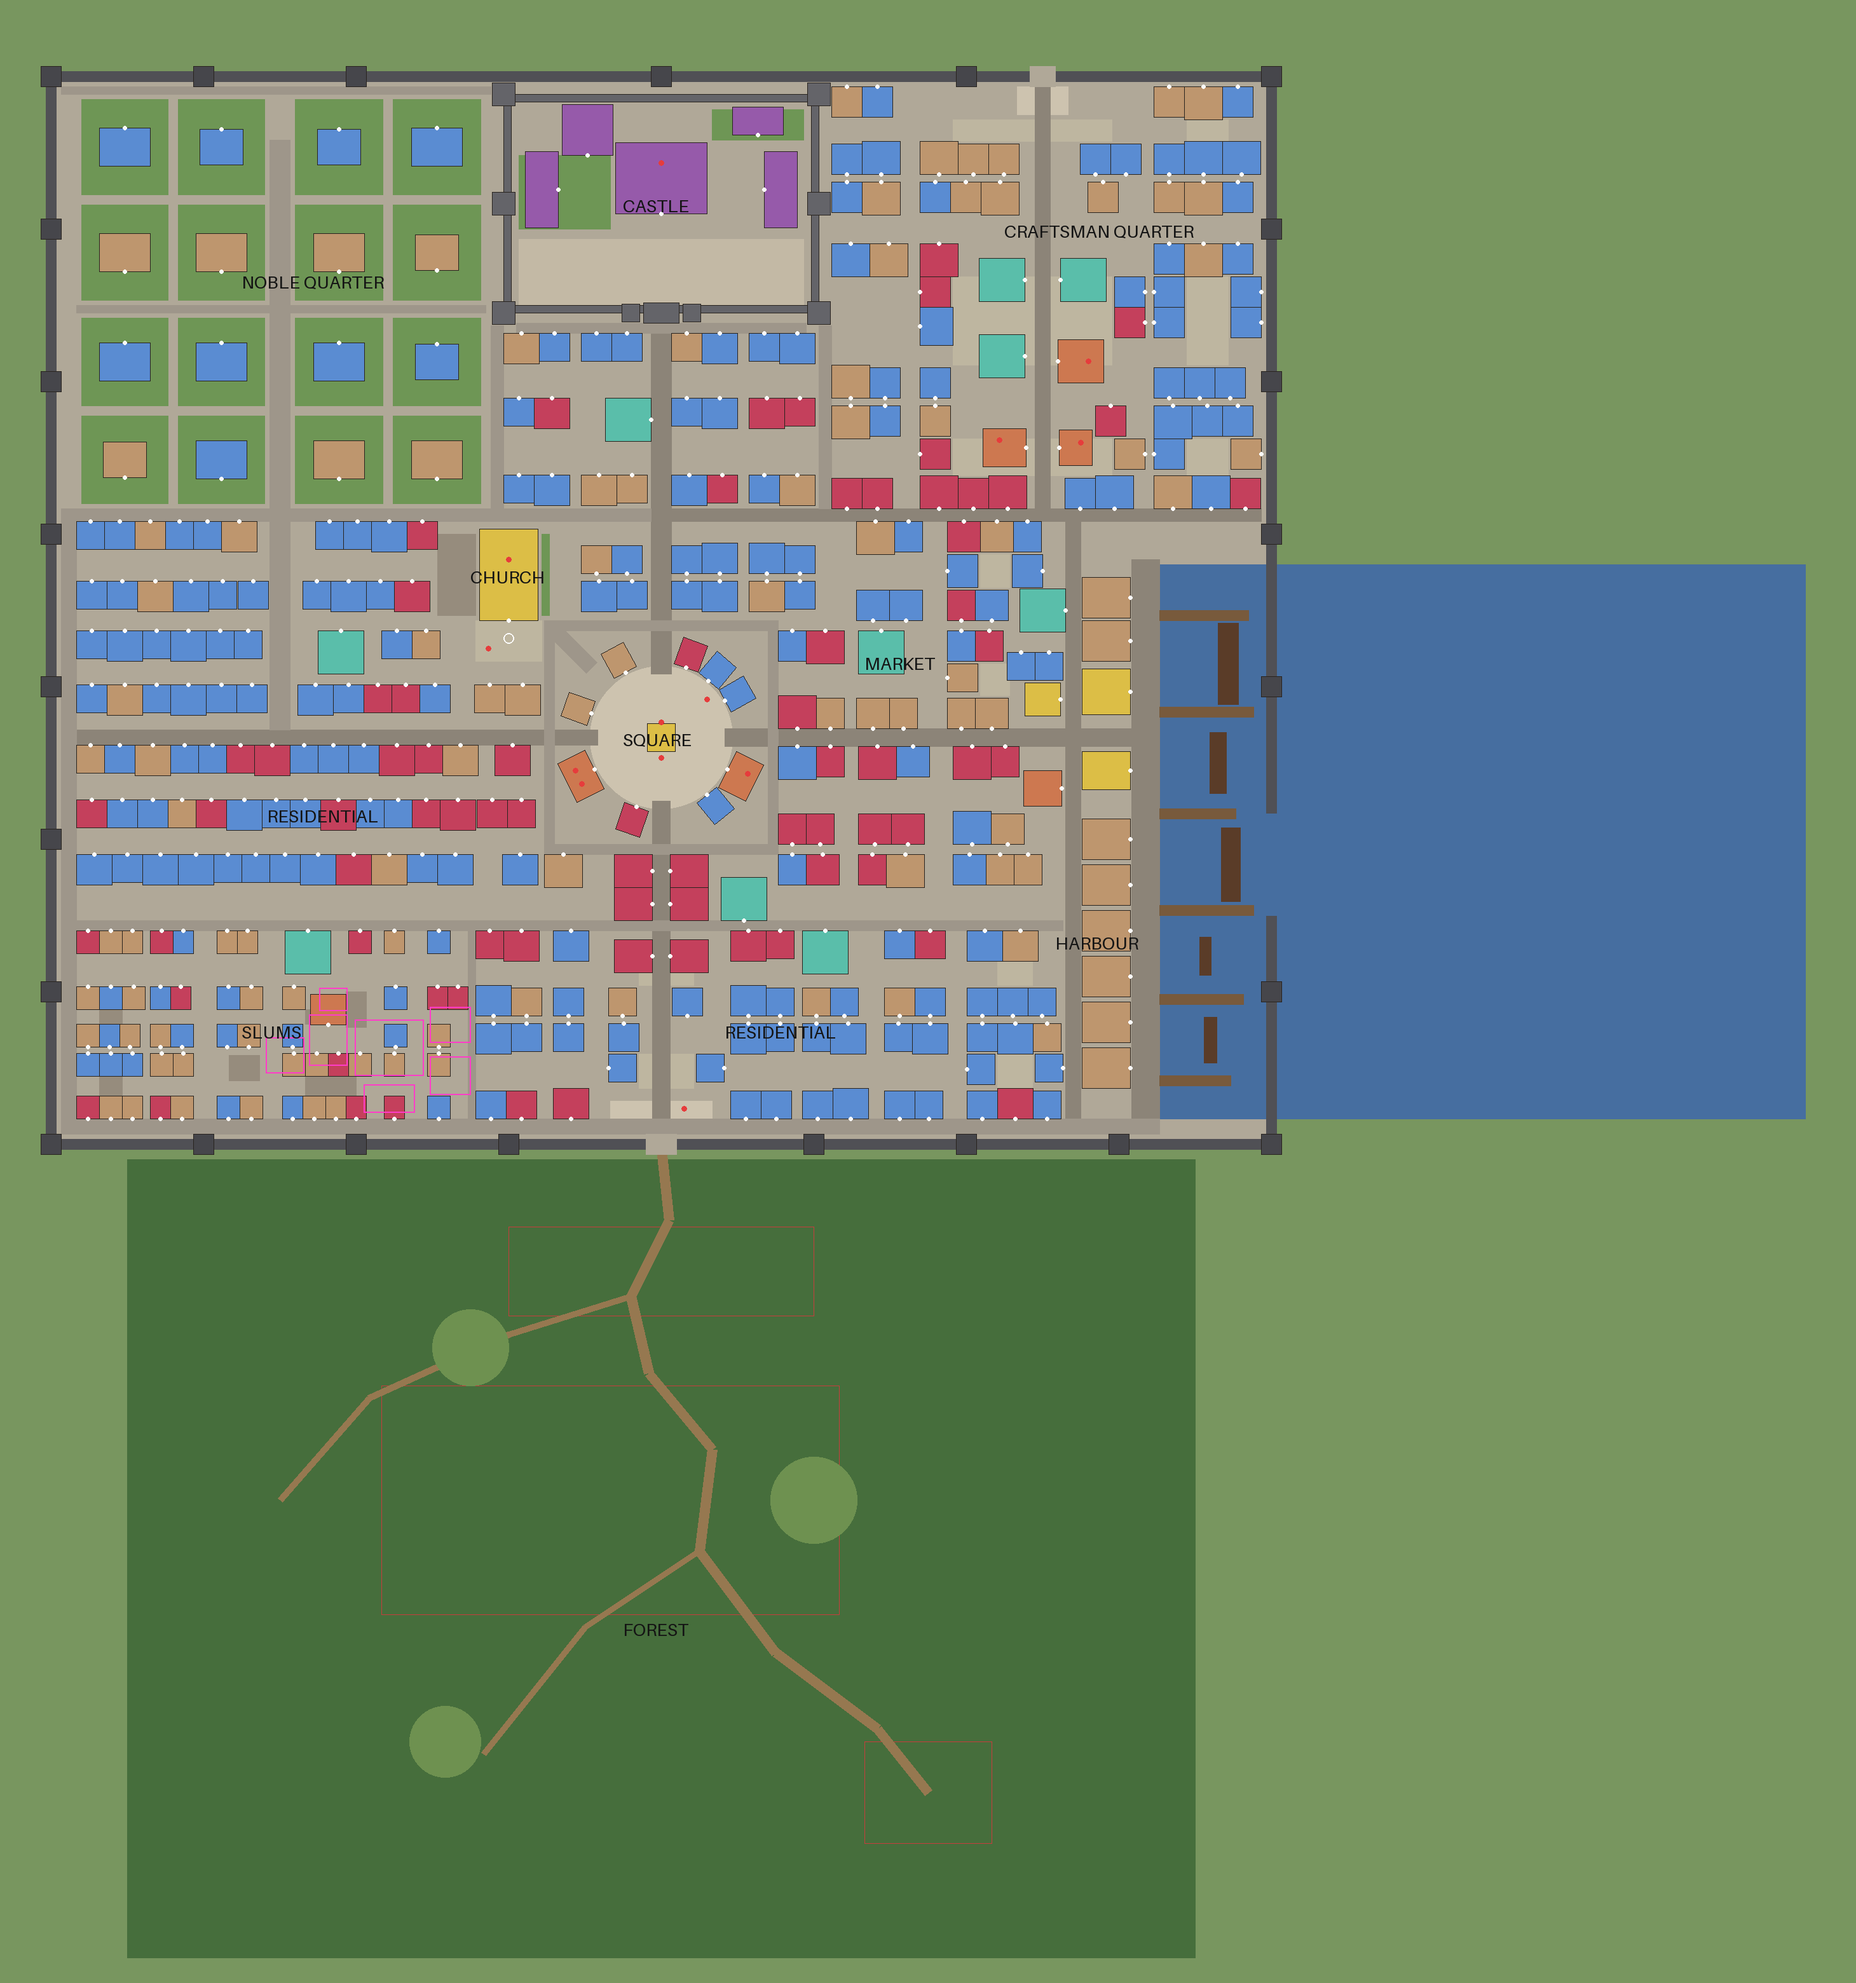
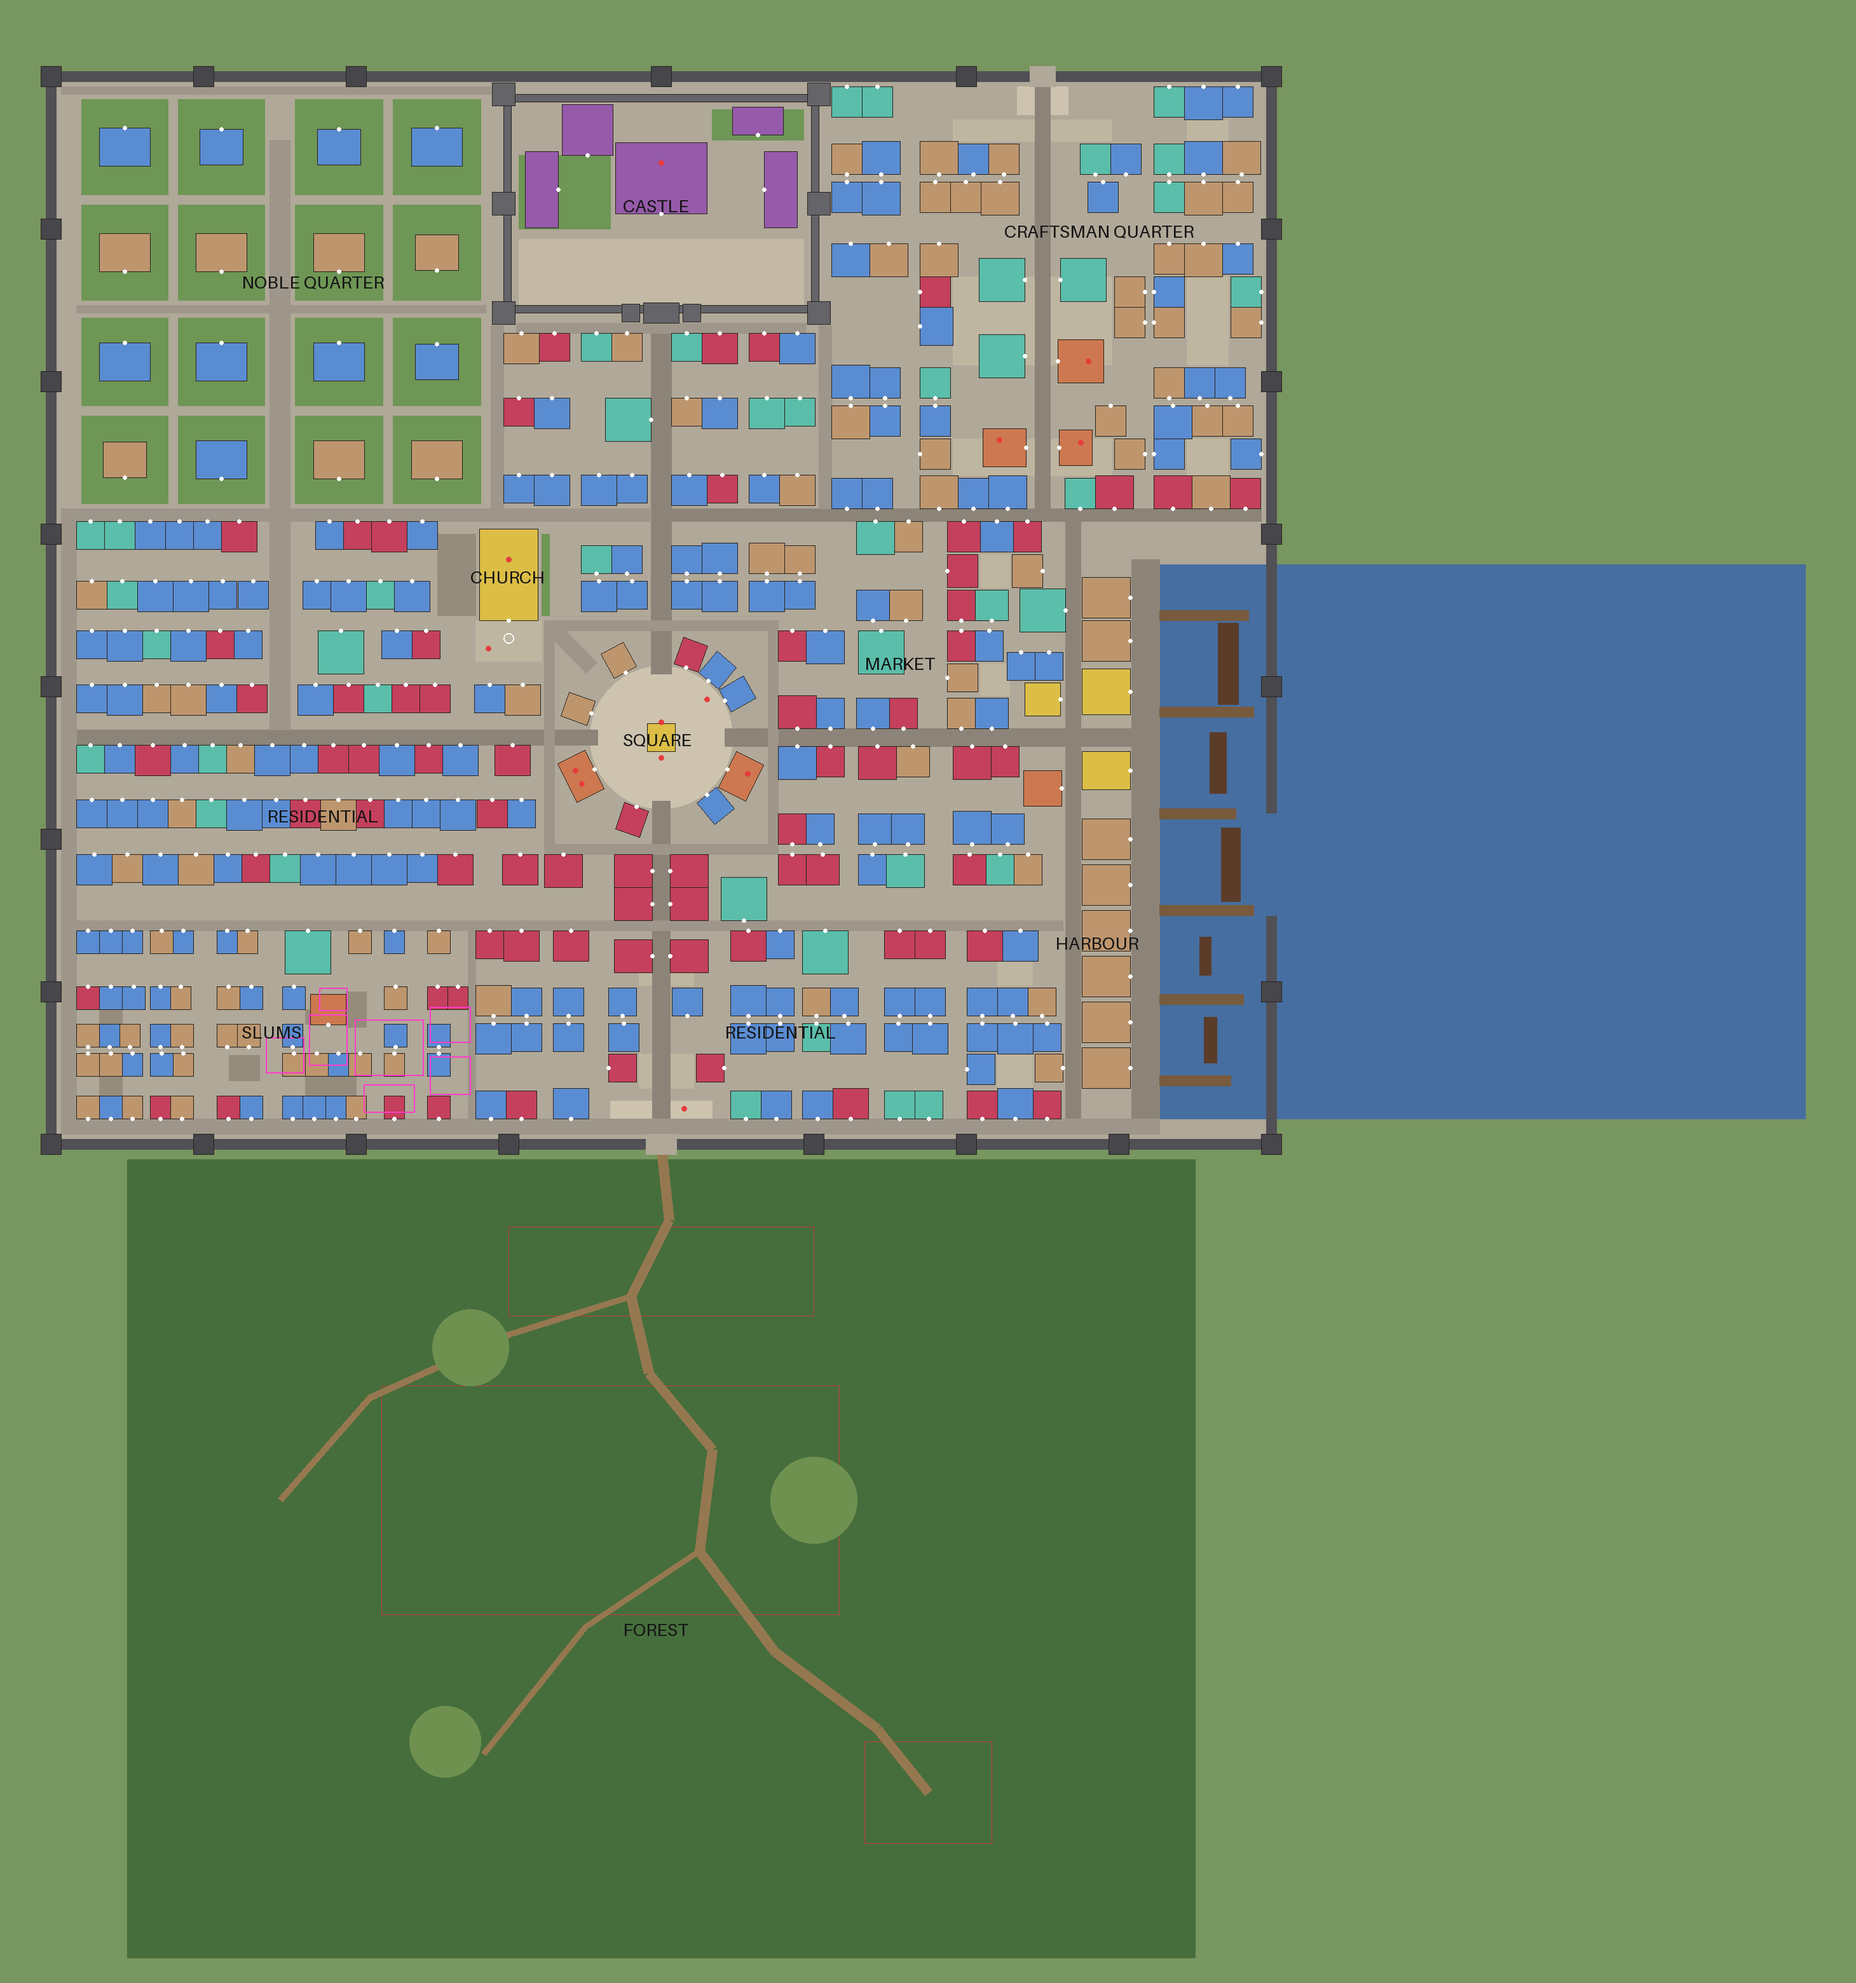
Heart of Realms crystal replaces the fountain; guild houses on ordinary streets
The centre of the square is now the Heart of Realms itself: a crystal floating over a
stepped dais with a glowing core, shards at its foot, rune stones and eight obelisks.
32 guild houses (smaller halls, tier GuildHouse) join the 10 guild halls: 42 guild
buildings, fewer than the 74 shops, with 172 homes for sale.

Claude-Session: https://claude.ai/code/session_016ysSiGEq7Zq6AQg1sgUB1S

diff --git a/vanta/docs/CITY.md b/vanta/docs/CITY.md
@@ -15,7 +15,7 @@ opens to the sea in the east. Each white dot marks a door.
 | rose | Player shop for sale, with its counter on the street |
 | tan | House or building that isn't for sale |
 | orange | Public building you walk into (guild, inns and taverns, forge, apothecary) |
-| gold | Public landmark (church, fountain, customs house, fish market) |
+| gold | Public landmark (church, the Heart of Realms, customs house, fish market) |
 | purple | Castle |
 | teal | Guild hall |
 | dark grey | City and castle walls, towers and gatehouses |
@@ -30,7 +30,7 @@ opens to the sea in the east. Each white dot marks a door.
 | Gates | South gate to the forest, north gate to the mountain road, sea gate into the harbour |
 | Streets | Main roads 12 to 16 studs, side streets 6 to 8, alleys 4 to 5 |
 | Houses | 356, each 16 to 40 studs wide, one to three storeys, built from 15 house models (68 of them are shops) |
-| For sale | 194 homes, 74 shops and 10 guild halls: 278 property IDs |
+| For sale | 172 homes, 74 shops and 42 guild halls and guild houses: 288 property IDs |
 | Public buildings you walk into | 17 (10 of them guild halls), plus the church, the keep, the Royal Library and the fish market |
 | Parts | About 14,000, of which 104 cast light |
 
@@ -62,7 +62,7 @@ room far above the map. Only the few public buildings have a real ground floor y
 
 ## Districts
 
-- **Merchant Square**: a paved disc 112 studs across with the fountain and the Heart of Realms at its centre. A
+- **Merchant Square**: a paved disc 112 studs across with the Heart of Realms at its centre: the crystal the whole story turns on, floating over a stepped dais ringed by obelisks. A
   ring of three-storey houses and shops surrounds it, with the Adventurers' Guild and the Square Inn facing it.
   Market streets lined with shops run east and south of it.
 - **Church**: north-west of the square, reached by a lane from the plaza. It has a nave with pews facing the altar,
@@ -100,8 +100,9 @@ decoration. Everything else is bought and sold in player shops.
 
 ## Guild halls
 
-Ten guild halls stand around town: three in the craftsman quarter, two by the square, three in Old Town, one at the
-harbour and one in the slums. A guild's leader buys one from the guild treasury once the guild reaches level 5, and
+42 guild buildings stand around town, fewer than the shops. Ten are big guild halls: three in the craftsman quarter,
+two by the square, three in Old Town, one at the harbour and one in the slums. The other 32 are guild houses, smaller
+halls on ordinary streets (cheaper, from 80,000 gold before location). A guild's leader buys one from the guild treasury once the guild reaches level 5, and
 each guild may have one. A hall's ground floor is a room you walk into, with the guild's planning table in it.
 
 ## What things cost
